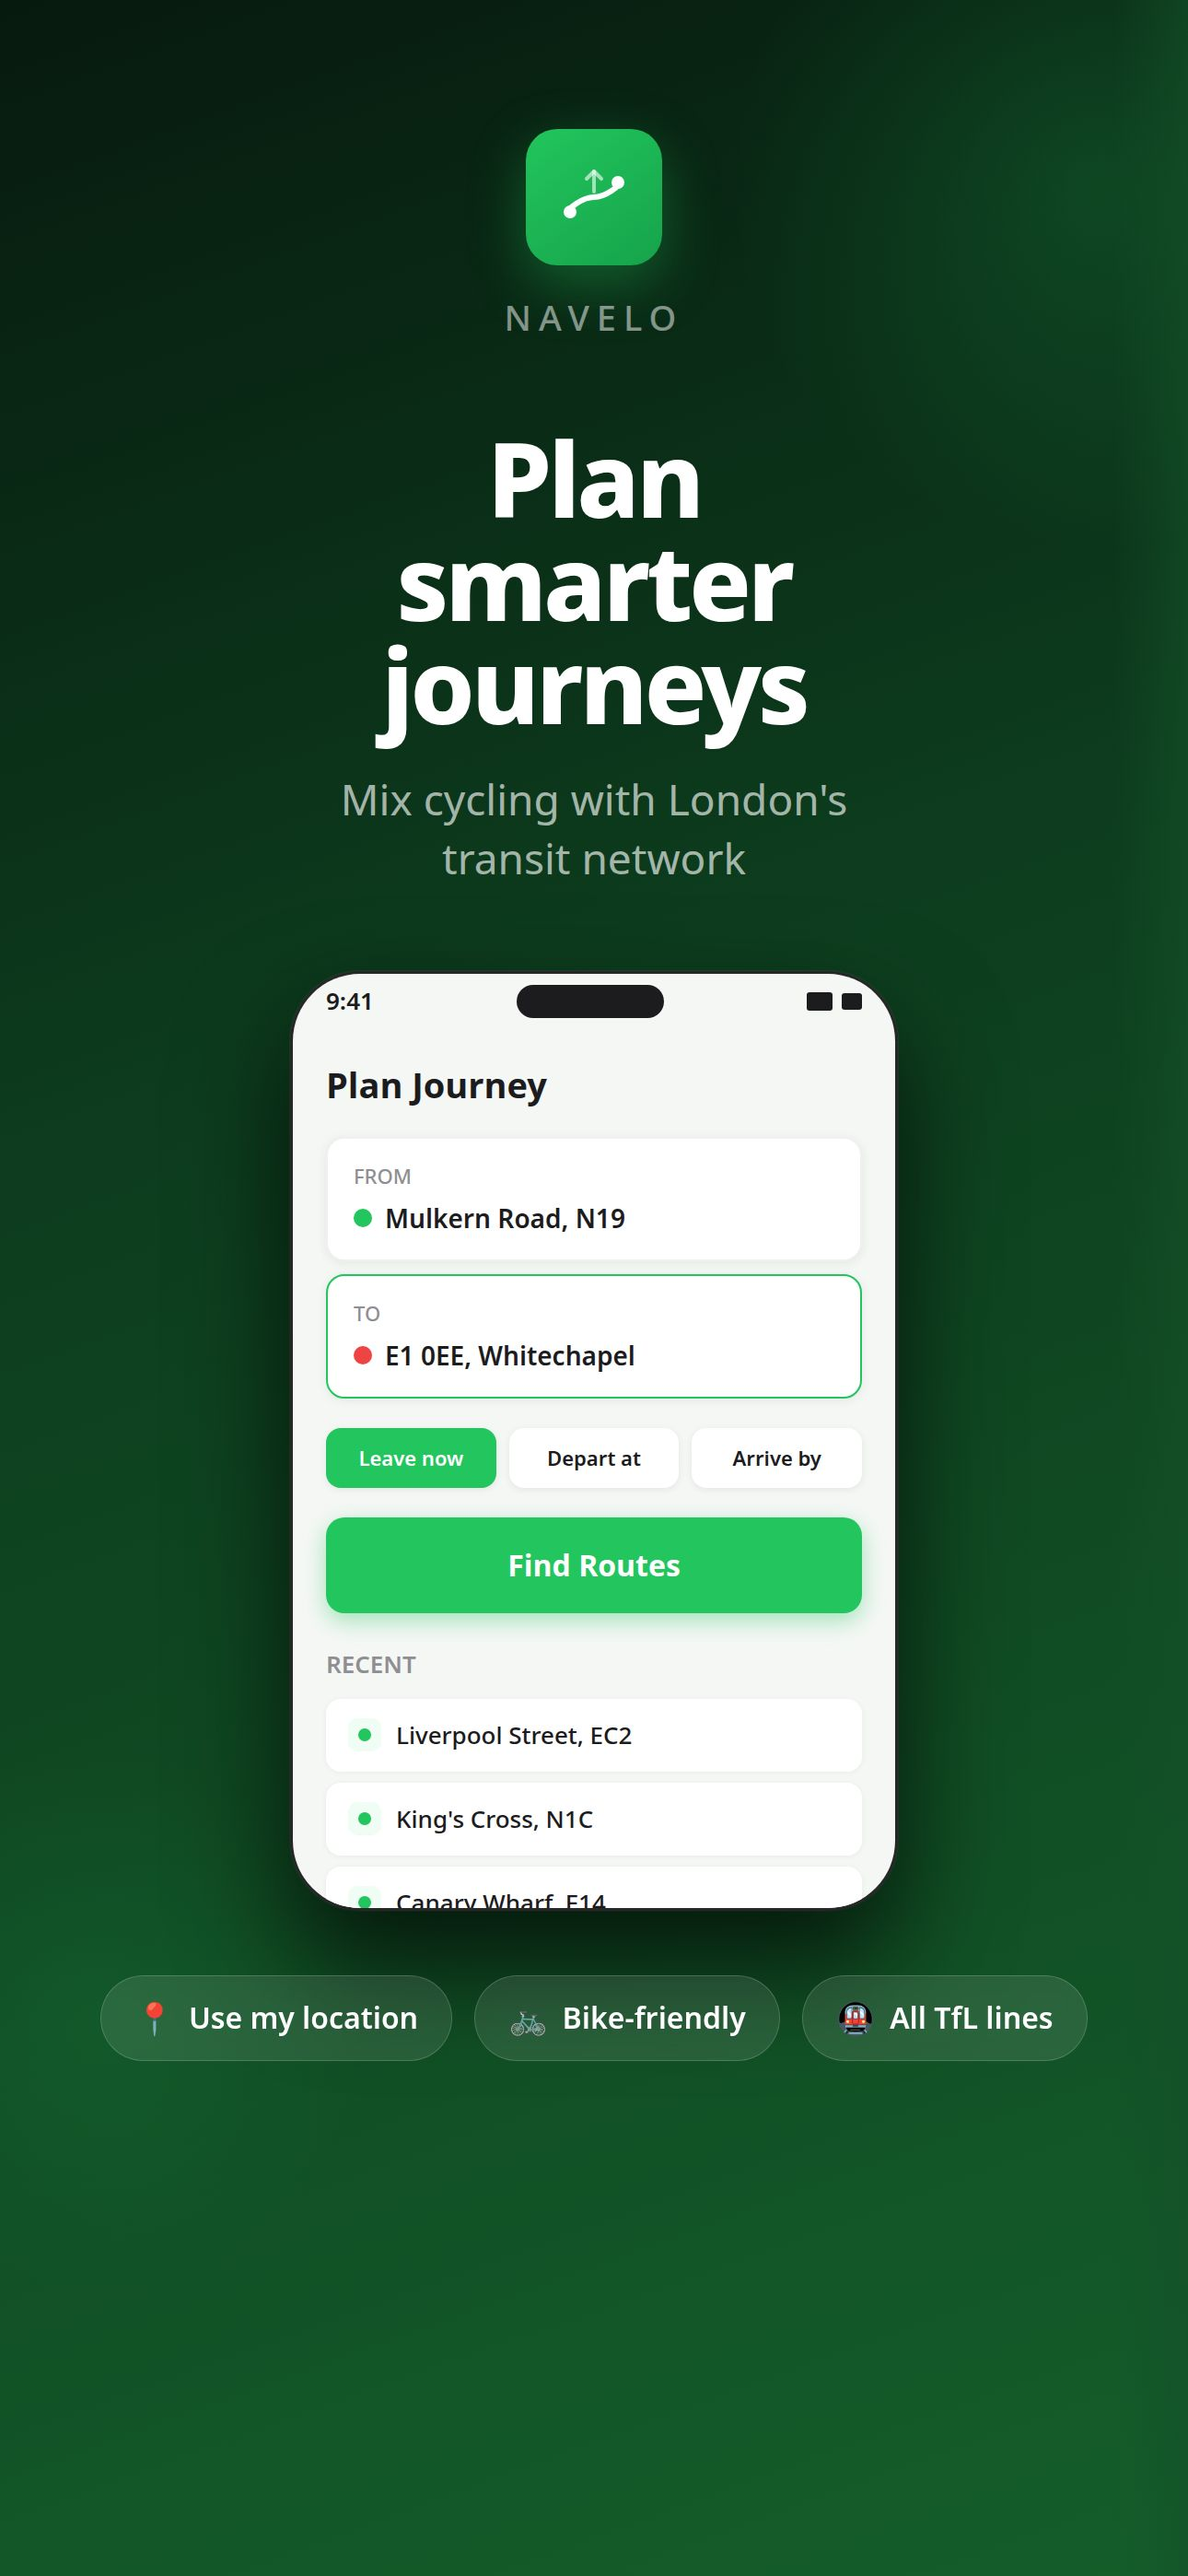
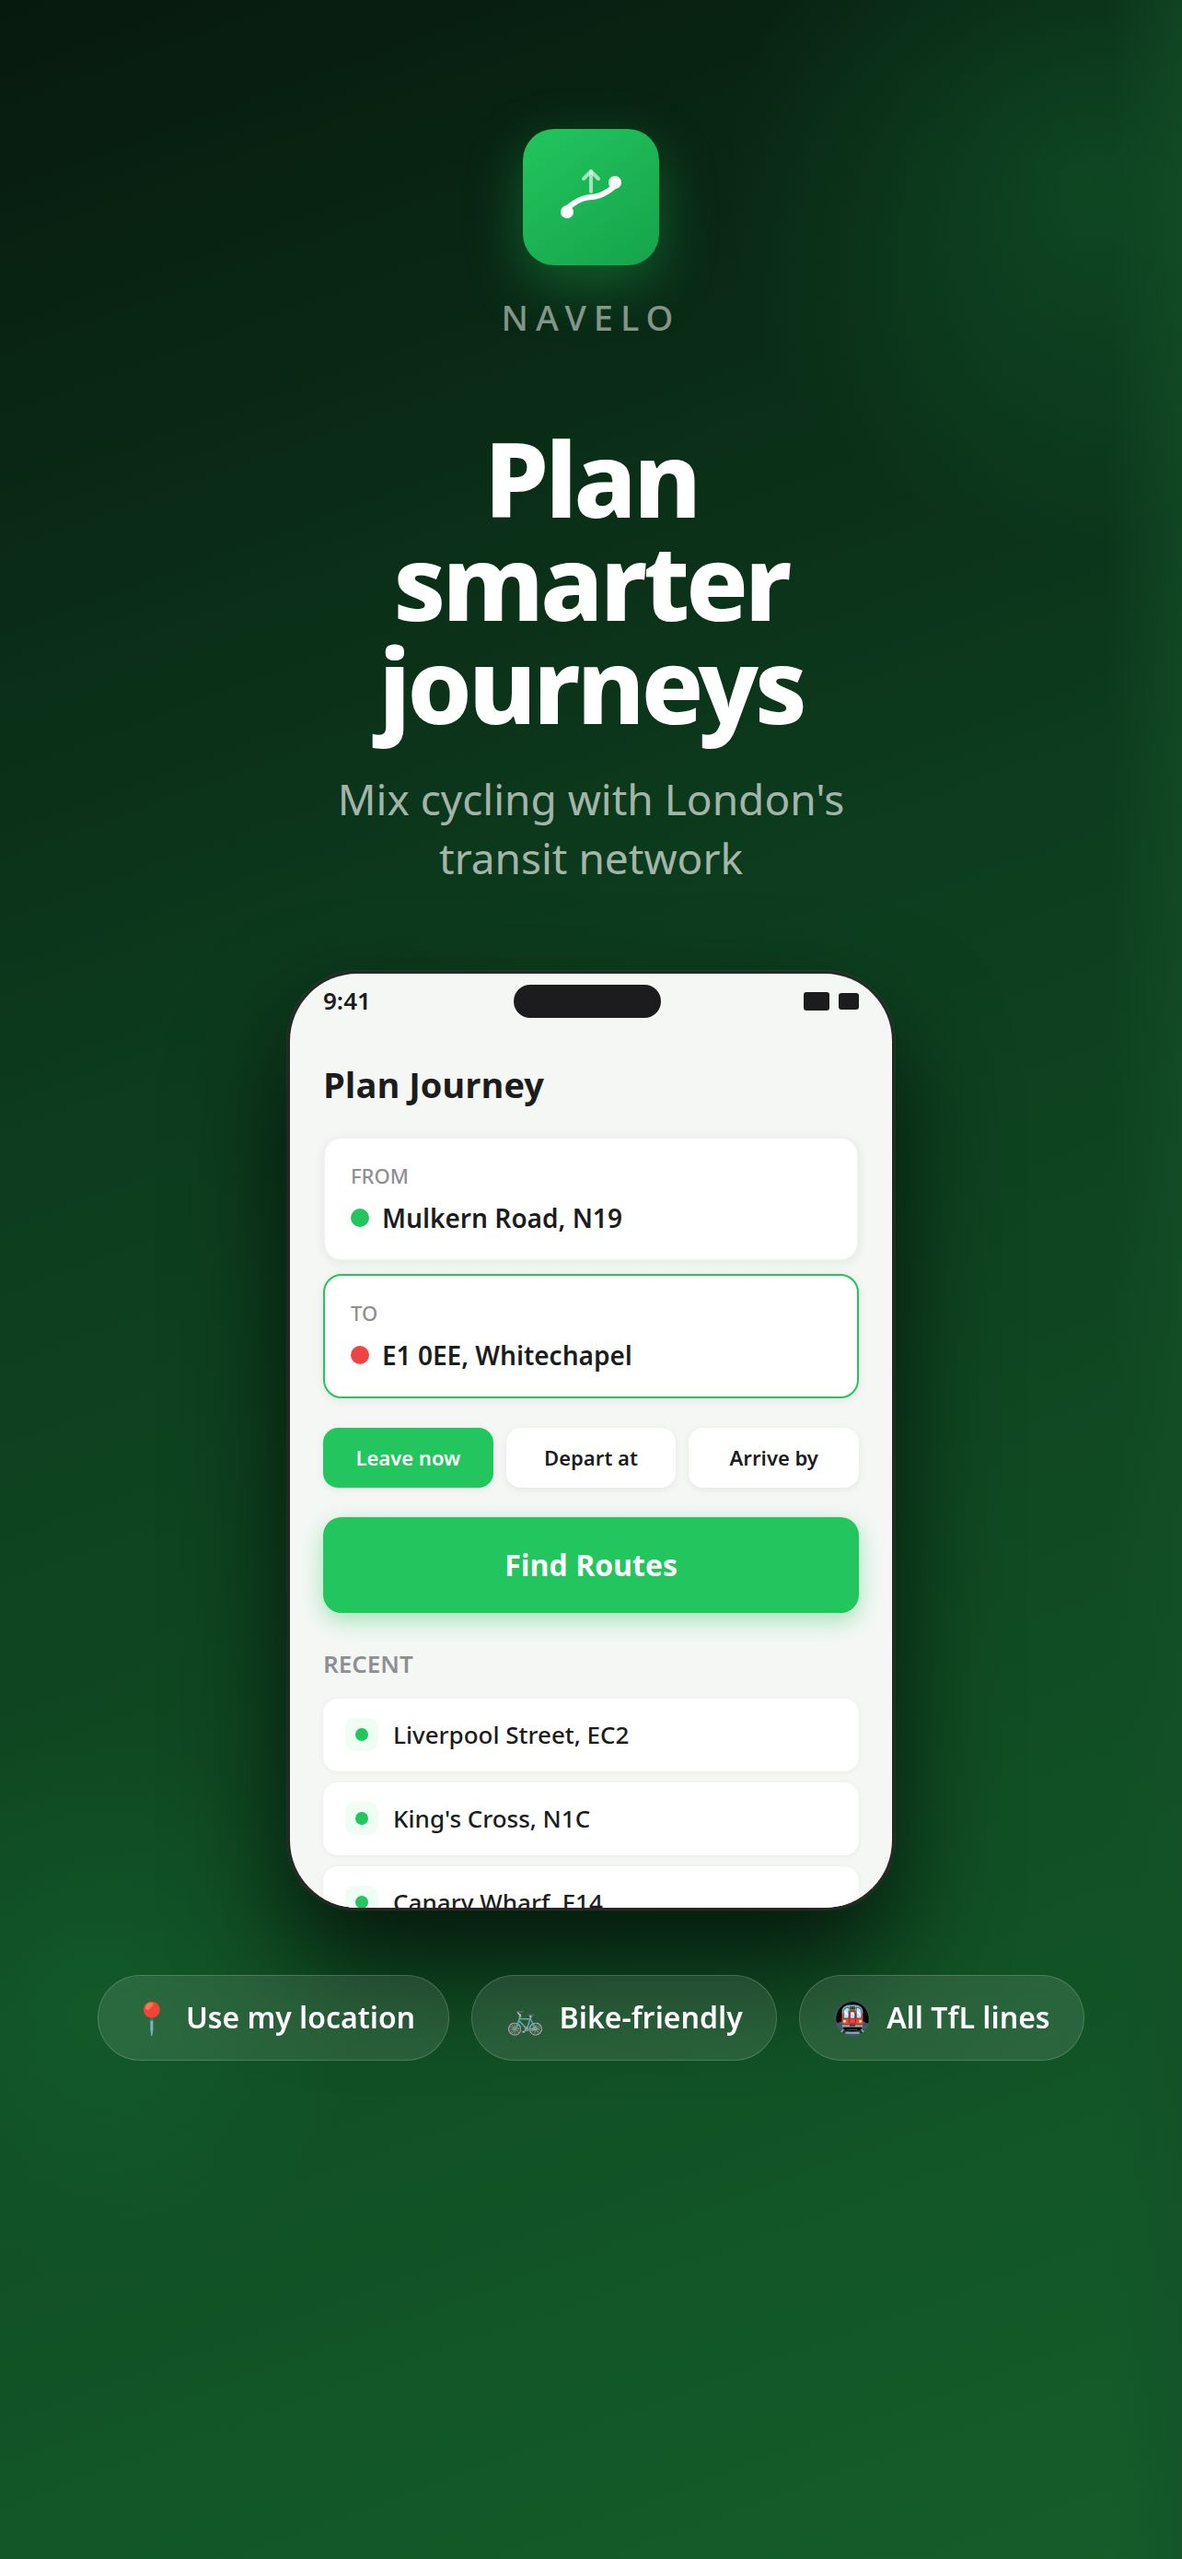
Update screenshot dimensions to meet App Store requirements
Adjust screenshot dimensions in mockups and metadata to 1284x2778px, replacing the previous 1290x2796px size to comply with App Store Connect guidelines.

Replit-Commit-Author: Agent
Replit-Commit-Session-Id: 356e8f4e-18b7-42f0-8686-f8393e744dbd
Replit-Commit-Checkpoint-Type: full_checkpoint
Replit-Commit-Event-Id: 8166c96e-b7d2-4e7a-87b9-115c5bf34b5a
Replit-Commit-Screenshot-Url: https://storage.googleapis.com/screenshot-production-us-central1/e2315b2b-6dc2-4ca1-8488-6559592e17c8/356e8f4e-18b7-42f0-8686-f8393e744dbd/BGa4mVf
Replit-Helium-Checkpoint-Created: true

diff --git a/artifacts/mockup-sandbox/src/components/mockups/Screenshot2.tsx b/artifacts/mockup-sandbox/src/components/mockups/Screenshot2.tsx
@@ -2,8 +2,8 @@ export default function Screenshot2() {
   return (
     <div
       style={{
-        width: 1290,
-        height: 2796,
+        width: 1284,
+        height: 2778,
         background: "linear-gradient(160deg, #145e2a 0%, #1a8a3a 35%, #16a34a 65%, #178c40 100%)",
         fontFamily: "-apple-system, 'SF Pro Display', 'Helvetica Neue', sans-serif",
         display: "flex",

diff --git a/artifacts/mockup-sandbox/src/components/mockups/Screenshot3.tsx b/artifacts/mockup-sandbox/src/components/mockups/Screenshot3.tsx
@@ -2,8 +2,8 @@ export default function Screenshot3() {
   return (
     <div
       style={{
-        width: 1290,
-        height: 2796,
+        width: 1284,
+        height: 2778,
         background: "linear-gradient(160deg, #178c40 0%, #0f6b35 40%, #0a4726 70%, #071a0e 100%)",
         fontFamily: "-apple-system, 'SF Pro Display', 'Helvetica Neue', sans-serif",
         display: "flex",

diff --git a/artifacts/mockup-sandbox/src/components/mockups/Screenshot1.tsx b/artifacts/mockup-sandbox/src/components/mockups/Screenshot1.tsx
@@ -2,8 +2,8 @@ export default function Screenshot1() {
   return (
     <div
       style={{
-        width: 1290,
-        height: 2796,
+        width: 1284,
+        height: 2778,
         background: "linear-gradient(160deg, #071a0e 0%, #0d3d1e 40%, #145e2a 100%)",
         fontFamily: "-apple-system, 'SF Pro Display', 'Helvetica Neue', sans-serif",
         display: "flex",
